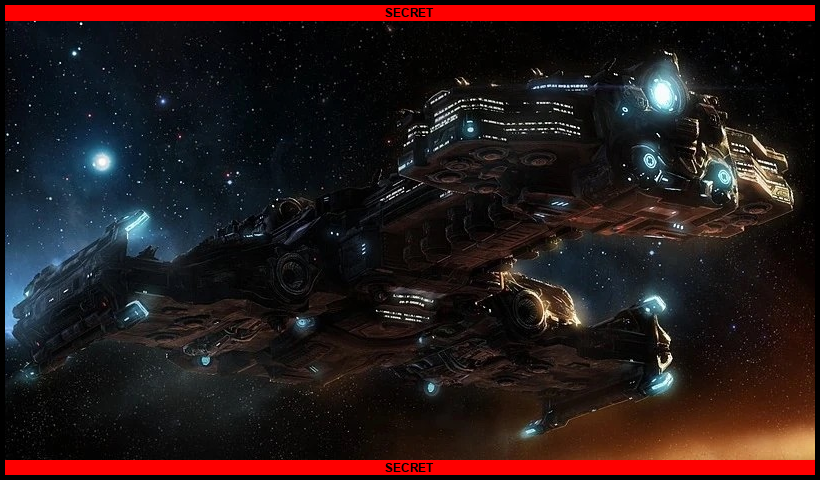
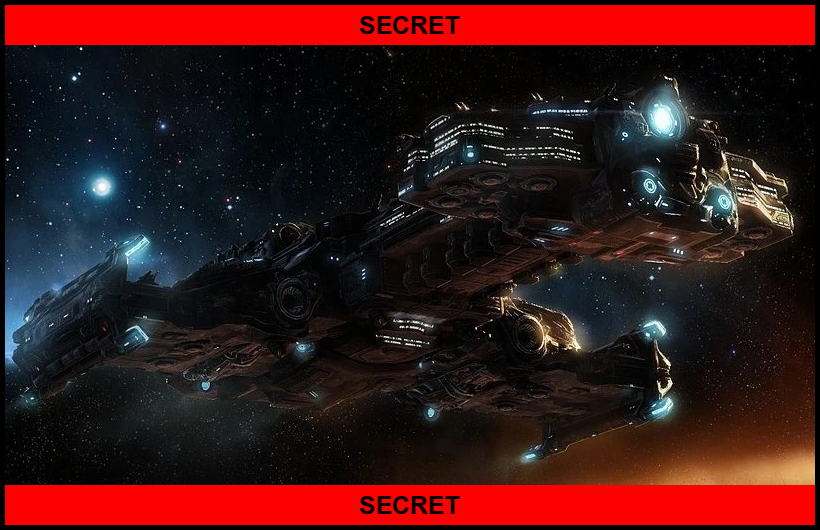
changed bar sizing and added readme elements

diff --git a/classitag/classitag.py b/classitag/classitag.py
@@ -8,13 +8,13 @@ logging.basicConfig(
     level=logging.INFO, format="%(asctime)s - %(name)s - %(levelname)s - %(message)s"
 )
 
-DEFAULT_FONT_SIZE = 12
+DEFAULT_FONT_SIZE = 25
 CLASSIFICATION_COLORS = {
     "SECRET": (255, 0, 0),
     "CUI": (0, 255, 0),
 }
 DEFAULT_CLASSIFICATION_COLOR = (0, 0, 0)
-BAR_HEIGHT = 15
+BAR_HEIGHT = 40
 FONT = pathlib.Path(__file__).parent / ".." / "font" / "ARIALBD.TTF"
 
 
@@ -35,7 +35,7 @@ def draw_overlay(draw: ImageDraw.ImageDraw, width: int, height: int, classificat
 
     overlay_color = CLASSIFICATION_COLORS.get(classification_upper, DEFAULT_CLASSIFICATION_COLOR)
 
-    # Calculate top and bottom overlay heights
+    # Set fixed height for the top and bottom overlay
     top_overlay_height = BAR_HEIGHT
     bottom_overlay_height = BAR_HEIGHT
 
@@ -81,14 +81,17 @@ def save_image_with_overlay(
 ) -> None:
     width, height = img.size
 
-    # Create a new image with additional space above and below
-    new_img = Image.new("RGB", (width, height + 2 * BAR_HEIGHT), (0, 0, 0))  # Black background
+    # Set fixed height for the top and bottom overlay
+    total_height = height + 2 * BAR_HEIGHT
+
+    # Create a new image with additional space for top and bottom overlays
+    new_img = Image.new("RGB", (width, total_height), (0, 0, 0))  # Black background
+
+    draw = ImageDraw.Draw(new_img)
+    draw_overlay(draw, width, total_height, classification)  # type: ignore # noqa: PGH003
 
     # Paste the original image onto the new image
     new_img.paste(img, (0, BAR_HEIGHT))
-
-    draw = ImageDraw.Draw(new_img)
-    draw_overlay(draw, width, height + 2 * BAR_HEIGHT, classification)
 
     bordered_img = add_border(new_img, border_thickness)
 

diff --git a/README.md b/README.md
@@ -76,12 +76,22 @@ The project relies on the following Python libraries:
 - `logging`: Standard library for logging messages.
 - `click`: A command-line interface creation kit.
 - `Pillow`: Python Imaging Library (PIL) for image processing.
+- `pyinstaller`: For executable creation.
 
 ## Notes
 
 - The Python version utilized is 3.11.6
 - The classification arguments are not case sensative.
 - Supported image formats: PNG, JPG, JPEG, BMP.
+- If using pyinstaller to make an executable, you will have to replace the following line:
+'''python
+FONT = pathlib.Path(__file__).parent / ".." / "font" / "ARIALBD.TTF"
+'''
+With:
+'''python
+FONT = pathlib.Path(sys._MEIPASS) / "font" / "ARIALBD.TTF"
+'''
+
 
 ## Contributing
 
